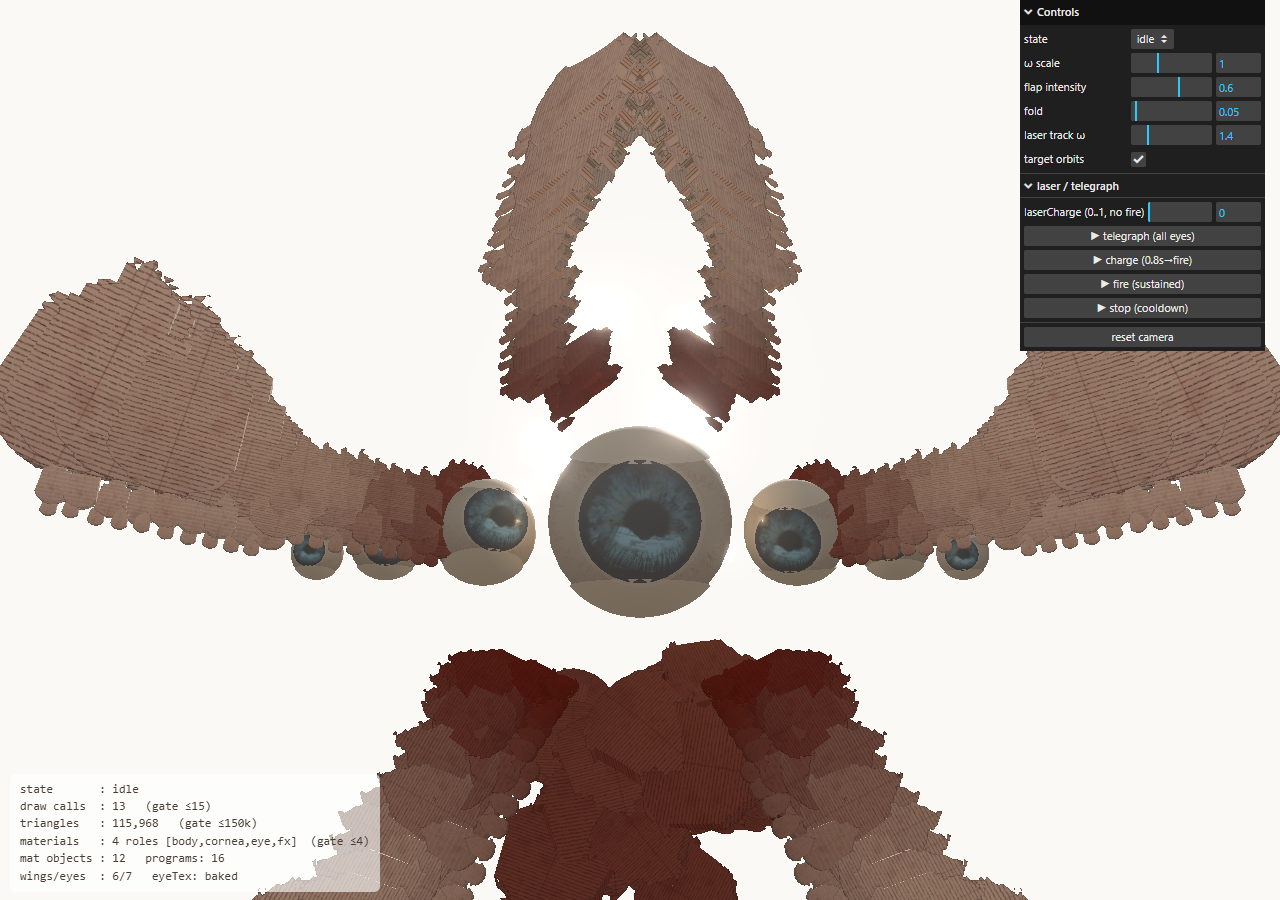
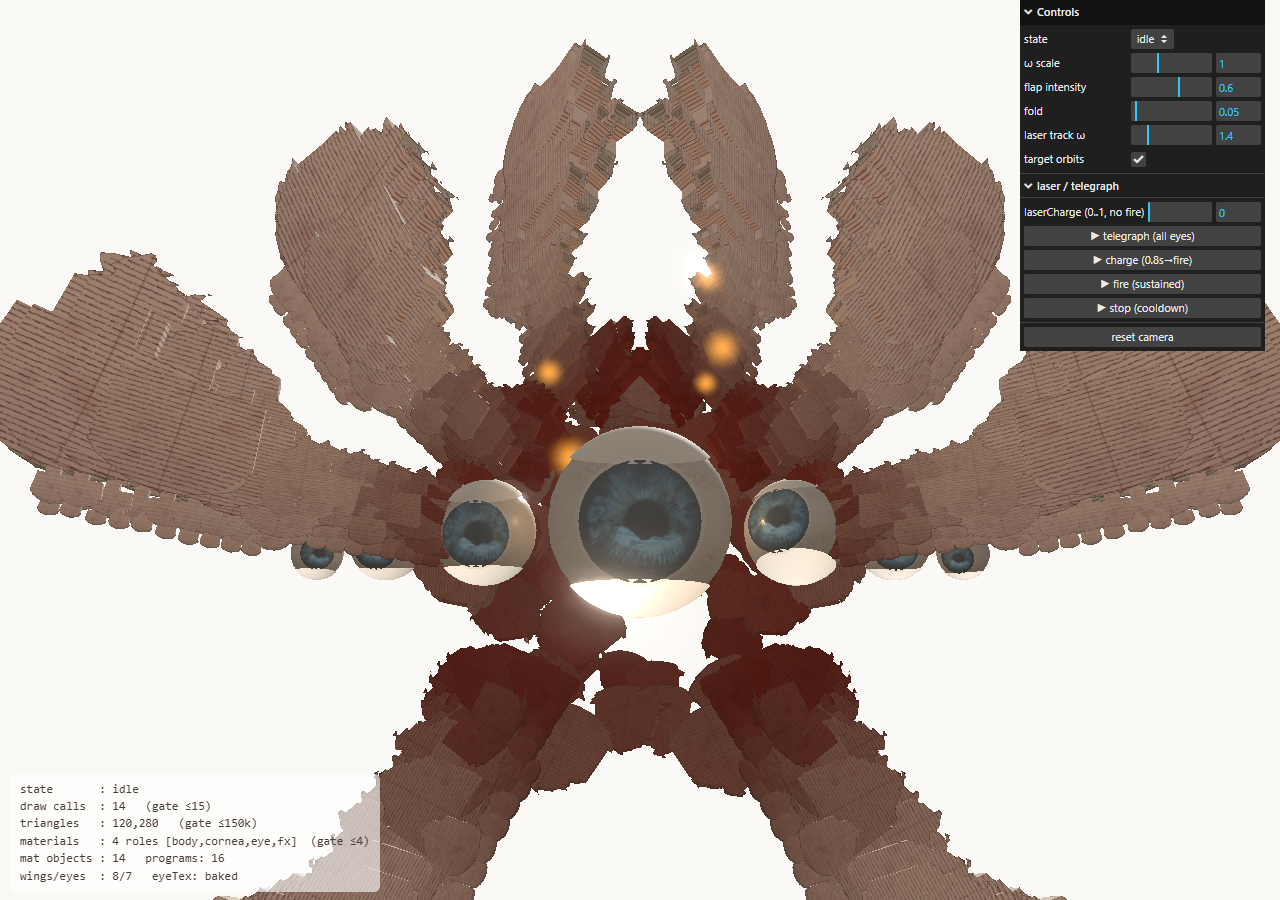
Ceraphim arrival cutscene (5s spacetime rip, MP-synced, build hitch hidden in CSS flash) + beam path carve + core-feather mantle re-layout + swim/getBlock float fix + survival K-gate
- buildCoreMass: radial mantle BEHIND the eye band (seed at each wing root, L/R flankers stepped inward, fill inside) — no more red blob
- bossCutscene/beginBossSummon/'bosscine' net msg: every player sees the rip; heavy rig build fires ~90ms into a compositor-driven white flash on all screens
- bossBeamCarve: the laser destroys everything along its path (radius-1 tube, dungeon/bedrock-safe, bulk-coalesced, 240-block tick budget)
- getBlock now floors coords: float wy made idx() fractional -> undefined -> inWater/feetWet never true; swimming never engaged. Space now surfaces you + breach hop at waist depth
- KeyK summon gated out of survival; __hc QA hooks (key/lock/water/deepWater/cine/ripTest/carveTest); bench/verify-cine-swim.mjs 9/9

diff --git a/index.html b/index.html
@@ -617,6 +617,7 @@ function makeChunk(cx,cz){
            hasWater:false, hasCross:false, hasModel:false };
 }
 function getBlock(wx,wy,wz){
+  wx=Math.floor(wx); wy=Math.floor(wy); wz=Math.floor(wz);   // float-safe: a fractional wy made idx() fractional → blocks[NaN-ish]=undefined → "not water/not solid" lies (this is why swimming never engaged — p.inWater probes at pos.y+0.9)
   if (wy<0) return BID.bedrock; if (wy>=WH) return AIR;
   const c = world.get(key(wx>>4, wz>>4));
   if (!c || !c.generated) return AIR;
@@ -2412,8 +2413,8 @@ function physics(dt){
   if(mag>0){ const nx=fwd/mag, ns=str/mag; mvx=(-sy*nx + cy*ns); mvz=(-cy*nx - sy*ns); }
   p.vel.x=mvx*base; p.vel.z=mvz*base;
   if(p.fly){ p.vel.y=((keys.Space?1:0)-((keys.ShiftLeft||keys.ShiftRight)?1:0))*base*0.85; }
-  else if(p.inWater){ // buoyant water physics: swim up (Space), dive (Sneak), else float+slow-sink
-    if(keys.Space) p.vel.y=3.8;
+  else if(p.inWater || (p.wading && getBlock(p.pos.x, p.pos.y+0.35, p.pos.z)===WATER)){ // buoyant water physics: swim up (Space), dive (Sneak), else float+slow-sink. Waist-deep ALSO swims — previously only a submerged torso did, so holding Space stalled with your eyes at the waterline and you could never break out of the water
+    if(keys.Space) p.vel.y = p.inWater?3.8:5.2;   // submerged: steady rise toward the surface; at the surface: a breach hop so you can climb onto the bank
     else if(p.sneak) p.vel.y=-3.2;
     else { p.vel.y-=7*dt; if(p.vel.y<-2.6)p.vel.y=-2.6; p.vel.y*=0.9; } }
   else if(p.onLadder){ // LADDER — cling to the rungs and climb. Horizontal is DAMPED so pressing W (or strafing) can't
@@ -3065,8 +3066,15 @@ applyFps(); applyMind(); buildPauseSettings();
 document.getElementById('respawnbtn').addEventListener('click',()=>{ respawn(); requestLock(); });
 document.addEventListener('pointerlockchange',()=>{ locked=document.pointerLockElement===canvas; if(locked){ pause.style.display='none'; audioResume&&audioResume(); } else if(started && !player.dead && !openUI){ pause.style.display='flex'; for(const k in keys)delete keys[k]; heldBtn=-1; } });
 let _lookDX=0,_lookDY=0;   // raw mouse deltas accumulate here; applyLook() eases them out over a few frames → SMOOTHED looking
+let _cine=null;            // CERAPHIM arrival cutscene state (declared early — applyLook reads it every frame; built by bossCutscene far below)
 document.addEventListener('mousemove',e=>{ if(!locked)return; _lookDX+=e.movementX; _lookDY+=e.movementY; });
 function applyLook(dt){ if(!locked)return; const base=0.0022*_sensMult;
+  if(_cine){ const dx=_cine.x-player.pos.x, dz=_cine.z-player.pos.z, dy=_cine.y-(player.pos.y+EYE), Lh=Math.hypot(dx,dz)||1e-6;   // CUTSCENE — the rip owns the camera; mouse input is discarded
+    const ty=Math.atan2(-dx,-dz), tp=clamp(Math.atan2(dy,Lh),-1.3,1.3), kc=1-Math.exp(-dt*4);
+    let dyaw=ty-player.yaw; dyaw=Math.atan2(Math.sin(dyaw),Math.cos(dyaw));
+    player.yaw+=dyaw*kc; player.pitch+=(tp-player.pitch)*kc; _lookDX=0; _lookDY=0;
+    if(_cine.shake>0){ player.yaw+=(Math.random()-0.5)*0.012*_cine.shake; player.pitch+=(Math.random()-0.5)*0.009*_cine.shake; }   // the world judders as it tears
+    return; }
   const _aT=(view&&view.adsT)||0, sens=base*(1-(1-_aimFrac)*_aT);   // sensitivity eases down WITH the raise (full at hip → _aimFrac at full cheek-weld), no snap
   const k=1-Math.exp(-dt*26);                                                    // smoothing rate (higher = snappier, lower = floatier)
   player.yaw-=_lookDX*sens*k; player.pitch-=_lookDY*sens*k; _lookDX*=(1-k); _lookDY*=(1-k);
@@ -3096,7 +3104,8 @@ addEventListener('keydown',e=>{ if(e.code==='Space')e.preventDefault();
     const dr=drops[drops.length-1]; if(dr){ dr.vx=d.x*4.5; dr.vz=d.z*4.5; dr.vy=2.2; }
     s.n--; if(s.n<=0)inv[selSlot]=null; refreshHotbar(); } }
   if(e.code==='KeyR'){ respawn(); }
-  if(e.code==='KeyK'){ HORROR._firstNight=true; wretch._summoned=true;   // SUMMON — anytime, day or night; it persists and CHOOSES what to do right now
+  if(e.code==='KeyK'){ if(!window._allowCreative){ flashName('the wood does not answer'); return; }   // SURVIVAL: no dev-summon — K is a creative/debug tool only
+    HORROR._firstNight=true; wretch._summoned=true;   // SUMMON — anytime, day or night; it persists and CHOOSES what to do right now
     if(!wretch.active){ wretch.spawnT=0; if(!spawnWretch(Math.random()*360,26)){ wretch.spawnT=0.5; return; } }
     chooseSummonAction(); }
 });
@@ -3148,7 +3157,7 @@ function useFlintSteel(h,slot){ let did=false, fx=player.pos.x, fy=player.pos.y+
     fx=h.x+0.5; fy=h.y+1.0; fz=h.z+0.5; flintStrike(fx,fy,fz); spawnParticles(fx,fy,fz,0xff5a20,22,2.6,1.1);
     const hb=(typeof herobrine!=='undefined')?herobrine:null;
     if(hb && hb.haunting && hb.state==='follow' && (hb.owner==null||hb.owner===NET.id) && Math.hypot(hb.x-h.x,hb.z-h.z)<9){   // a CUFFED Herobrine stands at the lit shrine → the offering is taken (only its leader can give it)
-      if(typeof summonBoss==='function')summonBoss(h.x+0.5, h.y+1, h.z+0.5); hb.haunting=false; hb.cuffed=false; if(typeof despawnHerobrine==='function')despawnHerobrine();
+      if(typeof beginBossSummon==='function')beginBossSummon(h.x+0.5, h.y+1, h.z+0.5); hb.haunting=false; hb.cuffed=false; if(typeof despawnHerobrine==='function')despawnHerobrine();   // 5s spacetime-rip cutscene → summonBoss fires inside its white flash
       spawnParticles(h.x+0.5,h.y+2,h.z+0.5,0xff2010,50,4,2.2); flashName('THE SHRINE IGNITES — the offering is taken. Something monstrous wakes.'); }
     else flashName('the netherrack catches — bring the cuffed one to the shrine first');
     slot.dur=(slot.dur||ITEMS.flint_and_steel.firestarter.dur)-1; if(slot.dur<=0){ inv[selSlot]=null; flashName('your flint & steel wears out'); } refreshHotbar(); return; }
@@ -3668,6 +3677,7 @@ function netMsg(m){
   else if(m.t==='grab'){ if(m.tid===NET.id && !player.grabbed && !player.dead && typeof beginDrag==='function'){ wretch.owner=NET.id; if(!wretch.group){const b=buildWretch();wretch.group=b.group;wretch.P=b.P;} beginDrag(); } }
   else if(m.t==='rescue'){ if(m.tid===NET.id && player.grabbed && typeof escapeDrag==='function') escapeDrag(); }
   else if(m.t==='dmg'){ if(m.to===NET.id && !player.dead && typeof damage==='function') damage(m.v||1, m.c||'struck down'); }                 // an authority (the boss / a peer) dealt damage to ME
+  else if(m.t==='bosscine'){ if(typeof bossCutscene==='function') bossCutscene(m.x,m.y,m.z,false); }                                          // a peer began the summon → every screen gets the rip + prebuilds the rig inside its own flash
   else if(m.t==='bossdead'){ wretch.boss=false; if(typeof applyBossVisual==='function')applyBossVisual(false);                                // the MEGA-WRETCH fell — tear the seraph down on every screen
     if(typeof spawnParticles==='function')spawnParticles(m.x,m.y+1,m.z,0x3a0608,40,3.4,1.8);
     if(typeof playSample==='function')playSample('seraph_toll',{x:m.x,y:m.y,z:m.z},1.0);
@@ -7268,6 +7278,21 @@ function bossBlast(cx,cy,cz,r){ const R=Math.ceil(r), r2=r*r, fx=Math.floor(cx),
     if(!bb||bb===WATER||(B[bb]&&(B[bb].hard<0))||inDungeon(x,y,z))continue;                                    // skip air/water/bedrock/unbreakable and the sacred dungeon
     setBlockWorld(x,y,z,AIR,true); if(typeof netEdit==='function')netEdit(x,y,z,AIR); n++; }
   if(n){ spawnParticles(cx,cy+0.5,cz,0xff5a20,26,4.2,1.0); spawnParticles(cx,cy+1.0,cz,0x3a3a3a,14,3.0,1.4); wretchVoice&&wretchVoice('sting',{x:cx,y:cy,z:cz}); } }
+// the beam is a physical thing — it destroys EVERYTHING in its path, not just where it lands.
+// A radius-1 rounded tube is marched from the eye to the strike point every damage tick; same
+// skip rules as bossBlast (air/water/bedrock/dungeon), bulk-coalesced so the remesh wave is one.
+function bossBeamCarve(ox,oy,oz,tx,ty,tz){ const dx=tx-ox,dy=ty-oy,dz=tz-oz, L=Math.hypot(dx,dy,dz)||1e-6, ux=dx/L,uy=dy/L,uz=dz/L; let n=0;
+  const seen=new Set(), doBulk=(typeof beginBulk==='function'); if(doBulk)beginBulk();
+  try{ for(let t=3.0;t<L-2.5;t+=0.8){ const px=ox+ux*t, py=oy+uy*t, pz=oz+uz*t;   // start clear of the boss, stop where bossBlast's r=3 takes over
+    for(let ax=-1;ax<=1;ax++)for(let ay=-1;ay<=1;ay++)for(let az=-1;az<=1;az++){ if(ax*ax+ay*ay+az*az>2)continue;
+      const x=Math.floor(px)+ax, y=Math.floor(py)+ay, z=Math.floor(pz)+az; if(y<=0||y>=WH)continue;
+      const k=x+'|'+y+'|'+z; if(seen.has(k))continue; seen.add(k);
+      const bb=getBlock(x,y,z); if(!bb||bb===WATER||(B[bb]&&(B[bb].hard<0))||inDungeon(x,y,z))continue;
+      setBlockWorld(x,y,z,AIR,true); if(typeof netEdit==='function')netEdit(x,y,z,AIR); n++;
+      if(n>240){ t=L; break; } } }                                                              // per-tick budget guard — the next tick finishes the cut
+  } finally { if(doBulk)endBulk(); }
+  if(n>6) spawnParticles(ox+ux*L*0.5, oy+uy*L*0.5, oz+uz*L*0.5, 0xff5a20, 8, 3.5, 0.8);
+  return n; }
 // TARGETING RING — a ground decal marking where a laser will land; it tracks the player, then LOCKS in the final beat so you can juke out
 let bossAimRing=null;
 function ensureBossRing(){ if(bossAimRing)return bossAimRing; const g=new THREE.Group();
@@ -7305,6 +7330,58 @@ function summonBoss(x,y,z){ if(!wretch.group){ const b=buildWretch(); wretch.gro
   wretch._laserState=null; wretch._laserCd=4; wretch._laserT=0;
   wretch.state='HUNT'; wretch.thought='RISEN. Winged. Furious. It will not forgive.'; wretchVoice&&wretchVoice('scream',wretch.pos); wretchVoice&&wretchVoice('shriek',wretch.pos);
   if(typeof playSample==='function'){ playSample('seraph_horn',wretch.pos,1.0); playSample('seraph_choir',wretch.pos,0.7); } }   // the herald blast + the massed angelic drone
+
+// ===== CERAPHIM ARRIVAL CUTSCENE — a 5s rip in spacetime that swallows the rig-build hitch =====
+// The heavy work (buildWretch + seraphOn model/shader compile) is deliberately fired ~90ms into a
+// WHITE FLASH driven by a CSS keyframe animation: CSS opacity animates on the COMPOSITOR thread,
+// so the screen stays blazing white even while the main thread stalls on the build — the lag
+// spike physically cannot be seen. Every player gets the same show via the 'bosscine' message.
+function _ripPath(ctx,W,Hh,open,sd,t){ const cx=W/2, cy=Hh/2, hh=Hh*0.34*(0.22+0.78*Math.min(1,open*2.6)), hw=W*0.17*open, N=12;   // tall jagged lens, widens with `open`
+  ctx.beginPath();
+  for(let s=1;s>=-1;s-=2) for(let i=0;i<=N;i++){ const j=(s>0?i:N-i), ang=(j/N)*Math.PI;
+    const jag=0.68+0.62*sd[(j+(s>0?0:7))%14]+0.06*Math.sin(t*13+j*2.7);
+    const xx=cx+s*Math.sin(ang)*hw*jag, yy=cy-Math.cos(ang)*hh;
+    (s>0&&i===0)?ctx.moveTo(xx,yy):ctx.lineTo(xx,yy); }
+  ctx.closePath(); }
+function _drawRip(t){ const c=_cine; if(!c)return; const ctx=c.ctx, W=c.cv.width, Hh=c.cv.height;
+  ctx.clearRect(0,0,W,Hh);
+  const veil = t<1.2? 0.68*(t/1.2) : t<4.0? 0.68 : Math.max(0, 0.68*(1-(t-4.0)/0.9));   // the world dims while the tear is open, releases as it finishes
+  ctx.fillStyle='rgba(3,0,8,'+veil.toFixed(3)+')'; ctx.fillRect(0,0,W,Hh);
+  const open = t<0.9? 0.015+0.05*(t/0.9) : t<1.6? 0.065+0.29*((t-0.9)/0.7) : t<4.05? 0.355+0.03*Math.sin(t*9) : 0.355+Math.pow((t-4.05)/0.95,2)*3.4;   // hairline crack → torn open → blown out past the frame
+  if(t>0.55&&t<4.1){ ctx.save(); ctx.globalAlpha=0.16+0.10*Math.sin(t*17); ctx.strokeStyle='#cfe0ff'; ctx.lineWidth=1;   // spacetime streaking INTO the tear
+    for(let i=0;i<18;i++){ const a=(i/18)*6.283+t*0.05, r1=Math.max(W,Hh)*0.75, r0=Math.min(W,Hh)*(0.16+0.1*c.sd[i%14]);
+      ctx.beginPath(); ctx.moveTo(W/2+Math.cos(a)*r1, Hh/2+Math.sin(a)*r1); ctx.lineTo(W/2+Math.cos(a)*r0, Hh/2+Math.sin(a)*r0); ctx.stroke(); }
+    ctx.restore(); }
+  ctx.save(); ctx.globalCompositeOperation='destination-out'; _ripPath(ctx,W,Hh,open,c.sd,t); ctx.fill(); ctx.restore();   // the tear is a HOLE — the world (and the arriving Ceraphim) shows through it
+  if(open<2.2) for(const rim of [['rgba(255,70,44,0.85)',3,8],['rgba(96,150,255,0.85)',-3,8],['#ffffff',0,4]]){ ctx.save(); ctx.translate(rim[1],0);   // white-hot rim with cheap chromatic fringe
+    _ripPath(ctx,W,Hh,open,c.sd,t); ctx.strokeStyle=rim[0]; ctx.lineWidth=rim[2]; ctx.shadowColor='#fff'; ctx.shadowBlur=30; ctx.stroke(); ctx.restore(); } }
+function bossCutscene(x,y,z,isSummoner){ if(_cine)return;
+  const gy=groundYAt(x,z);
+  const wrap=document.createElement('div'); wrap.style.cssText='position:fixed;inset:0;z-index:30;pointer-events:none;';
+  const cv=document.createElement('canvas'); cv.width=innerWidth; cv.height=innerHeight; cv.style.cssText='position:absolute;inset:0;width:100%;height:100%';
+  const flash=document.createElement('div'); flash.style.cssText='position:absolute;inset:0;background:#fff;opacity:0;';
+  const st=document.createElement('style'); st.textContent='@keyframes _cineFlash{0%{opacity:0}8%{opacity:1}30%{opacity:1}100%{opacity:0}}';
+  wrap.appendChild(cv); wrap.appendChild(flash); document.head.appendChild(st); document.body.appendChild(wrap);
+  const sd=[]; for(let i=0;i<14;i++)sd.push(Math.random());
+  _cine={x, y:gy+10, z, wrap, cv, ctx:cv.getContext('2d'), flash, st, sd, built:false, shake:0, isSummoner};
+  if(typeof playSample==='function') playSample('seraph_toll',{x,y:gy,z},1.0);   // something leans against the skin of the world
+  flashName('the air begins to split—');
+  const t0=performance.now();
+  (function tick(){ if(!_cine)return; const t=(performance.now()-t0)/1000;
+    if(t>=1.15 && !_cine.built){ _cine.built=true; _cine.flash.style.animation='_cineFlash 1.1s linear forwards';
+      setTimeout(()=>{ if(!_cine)return; try{ if(_cine.isSummoner) summonBoss(x,gy+1,z); else guestBossBuild(x,z); }catch(e){}   // the hitch lands INSIDE the flash
+        flashName('THE CERAPHIM TEARS THROUGH.'); },90); }
+    _cine.shake = t<1.15?0 : Math.max(0, 1-Math.max(0,t-2.0)/1.3);
+    _drawRip(t);
+    if(t<5.0) requestAnimationFrame(tick); else endBossCutscene(); })(); }
+function endBossCutscene(){ const c=_cine; if(!c)return; _cine=null; try{ c.wrap.remove(); c.st.remove(); }catch(e){} }
+function guestBossBuild(x,z){ if(wretch.boss)return;   // the owner's ticks may have raced us here — then the rig already exists and there is nothing to mask
+  if(!wretch.group){ const b=buildWretch(); wretch.group=b.group; wretch.P=b.P; }
+  wretch.active=true; wretch.group.visible=true; wretch.pos.set(x, groundYAt(x,z)+3, z);
+  wretch.boss=true; applyBossVisual(true); }   // pre-build the seraph during OUR flash so the arriving 'w' tick has no heavy work left
+function beginBossSummon(x,y,z){ if(_cine)return;
+  if(typeof NET!=='undefined'&&NET.on&&typeof netSend==='function') netSend({t:'bosscine',x:+x.toFixed(1),y:+y.toFixed(1),z:+z.toFixed(1)});
+  bossCutscene(x,y,z,true); }
 function bossUpdate(dt){ wretch.phase+=dt*1.4;
   const gp=(huntCam||player.pos), dx=gp.x-wretch.pos.x, dz=gp.z-wretch.pos.z, dist=Math.hypot(dx,dz)||1e-6, dy=gp.y-wretch.pos.y;
   wretch.dist=dist; wretch.yaw=Math.atan2(-dx,-dz); wretch._faceLock=true; wretch.faceOpen=0.55+Math.sin(wretch.phase*3)*0.3; wretch.eyeGlow=1; wretch.crawl=0; wretch._clingN=null; wretch.up.set(0,1,0);   // _faceLock keeps the body FACING THE PLAYER (not its flight heading)
@@ -7333,6 +7410,7 @@ function bossUpdate(dt){ wretch.phase+=dt*1.4;
     const _gyA=groundYAt(wretch._laserAim.x,wretch._laserAim.z); showBossRing(wretch._laserAim,0.5); showBossBeam(_ex,_eyH,_ez, wretch._laserAim.x,_gyA+0.3,wretch._laserAim.z);
     spawnParticles(wretch._laserAim.x,_gyA+0.4,wretch._laserAim.z, 0xff5a20, 3, 2.2, 0.4);
     wretch._laserTick=(wretch._laserTick||0)-dt; if(wretch._laserTick<=0){ wretch._laserTick=0.5; bossBlast(wretch._laserAim.x,_gyA,wretch._laserAim.z,3);   // EXPLODE blocks in a 3-block radius where it lands
+      bossBeamCarve(_ex,_eyH,_ez, wretch._laserAim.x,_gyA+0.3,wretch._laserAim.z);   // ...and RAZE everything the beam passes through on the way down
       const _ax=wretch._laserAim.x,_az=wretch._laserAim.z;
       if(Math.hypot(_ax-player.pos.x,_az-player.pos.z)<2.9 && typeof damage==='function')damage(4,'the seraph bathes you in searing light');
       if(NET.on)for(const _pid in NET.peers){ const _pp=NET.peers[_pid]; if(_pp && Math.hypot(_ax-_pp.x,_az-_pp.z)<2.9) netSend({t:'dmg',to:+_pid,v:4,c:'the seraph bathes you in searing light'}); } }   // beam burns whichever players stand in it
@@ -7470,7 +7548,7 @@ function spawnFromEgg(type, h){ h = h || raycastVoxel(); let x,z;
   if(type==='wretch'){ const dx=x-player.pos.x, dz=z-player.pos.z, dist=Math.max(8,Math.hypot(dx,dz)), bearing=Math.atan2(dx,dz)*180/Math.PI;
     HORROR._firstNight=true; if(!wretch.active){ wretch.spawnT=0; if(!spawnWretch(bearing,dist)) wretch.spawnT=0.5; } flashName('something answers the call'); return; }
   if(type==='herobrine'){ if(typeof startHaunt==='function')startHaunt(); flashName('a pale watcher stirs — it will show itself, then surrender'); return; }   // begins the Herobrine surrender sequence
-  if(type==='ceraphim'){ const gy=groundYAt(x,z); if(typeof summonBoss==='function')summonBoss(x,gy,z); flashName('THE CERAPHIM DESCENDS.'); return; }   // raise the winged boss at the aimed spot — same path as the shrine offering
+  if(type==='ceraphim'){ const gy=groundYAt(x,z); if(typeof beginBossSummon==='function')beginBossSummon(x,gy,z); return; }   // spacetime-rip cutscene → the winged boss tears through at the aimed spot
   if(!ANIMALS[type])return; let gy=groundYAt(x,z); if(type==='jesus' && gy<=CFG.SEA)gy=CFG.SEA+1;   // Jesus spawns standing ON the water
   const mesh=buildAnimalMesh(type,false); mesh.position.set(x,gy,z);
   animals.push({type,mesh,x,y:gy,z,yaw:Math.random()*6.283,hp:ANIMALS[type].hp,timer:0,flee:0,dead:false});
@@ -9077,7 +9155,19 @@ window.__hc={
     wretch.pos.set(player.pos.x+1.2, player.pos.y, player.pos.z); return wretch.grabPhase; },
   forceHaul(){ if(!wretch.active)this.summon(); if(typeof beginDrag==='function'){ beginDrag(); wretch.grabPhase='haul'; wretch.dragT=0; wretch.struggle=0; wretch.dragPath=null; } return wretch.grabPhase; },
   drag(){ const L=wretch.lair||{}; return { du:!!player._dragUsed, struggle:+(wretch.struggle||0).toFixed(1), gp:wretch.grabPhase, grabbed:player.grabbed, px:+player.pos.x.toFixed(1), pz:+player.pos.z.toFixed(1), py:+player.pos.y.toFixed(1), entX:L.entX!=null?+L.entX.toFixed(1):null, entZ:L.entZ!=null?+L.entZ.toFixed(1):null, roomY:L.roomY, distEnt:(L.entX!=null?+Math.hypot(L.entX-player.pos.x,L.entZ-player.pos.z).toFixed(1):null), pathLen:wretch.dragPath?wretch.dragPath.length:null, dragT:+(wretch.dragT||0).toFixed(1), lairX:L.x!=null?+L.x.toFixed(1):null, lairZ:L.z!=null?+L.z.toFixed(1):null }; },
-  diag(){ let bg='?'; try{ bg=scene.background?(scene.background.isColor?('#'+scene.background.getHexString()):'tex'):'null'; }catch(e){bg='e';} let vis=0; try{chunkRoot.children.forEach(g=>{if(g.visible)vis++;});}catch(e){} return { chunkRootVis:chunkRoot.visible, chunkKids:chunkRoot.children.length, chunkKidsVis:vis, skyVis:(typeof skyDome!=='undefined'?skyDome.visible:'?'), bg, wpos:[+wretch.pos.x.toFixed(1),+wretch.pos.y.toFixed(1),+wretch.pos.z.toFixed(1)], qaStudio:!!window.__qaStudio }; }
+  diag(){ let bg='?'; try{ bg=scene.background?(scene.background.isColor?('#'+scene.background.getHexString()):'tex'):'null'; }catch(e){bg='e';} let vis=0; try{chunkRoot.children.forEach(g=>{if(g.visible)vis++;});}catch(e){} return { chunkRootVis:chunkRoot.visible, chunkKids:chunkRoot.children.length, chunkKidsVis:vis, skyVis:(typeof skyDome!=='undefined'?skyDome.visible:'?'), bg, wpos:[+wretch.pos.x.toFixed(1),+wretch.pos.y.toFixed(1),+wretch.pos.z.toFixed(1)], qaStudio:!!window.__qaStudio }; },
+  key(c,on){ if(on)keys[c]=true; else delete keys[c]; return !!keys[c]; },   // QA: inject held keys past the pointer-lock gate (physics reads `keys` directly)
+  lock(on){ locked=!!on; return locked; },   // QA: force the pointer-lock flag — headless Chrome can never acquire real pointer lock, and physics() only runs while locked
+  deepWater(){ for(let r=30;r<260;r+=6)for(let a=0;a<12;a++){ const th=a*0.5236, x=player.pos.x+Math.cos(th)*r, z=player.pos.z+Math.sin(th)*r;   // QA: nearest genuinely deep sea spot
+    if(surfaceH(Math.round(x),Math.round(z))<=CFG.SEA-5) return {x:+x.toFixed(1),z:+z.toFixed(1),sea:CFG.SEA}; } return null; },
+  water(){ return {y:+player.pos.y.toFixed(2), inWater:player.inWater, wading:player.wading}; },   // QA: swim state
+  cine(){ return {active:!!_cine, built:!!(_cine&&_cine.built), boss:wretch.boss, shake:+((_cine&&_cine.shake)||0).toFixed(2)}; },   // QA: cutscene state
+  ripTest(){ const d=lookDir(); const x=player.pos.x+d.x*18, z=player.pos.z+d.z*18; beginBossSummon(x,groundYAt(x,z),z); return this.cine(); },   // QA: run the full summon cutscene in front of the player
+  carveTest(){ const d=lookDir(), ox=player.pos.x, oy=player.pos.y+14, oz=player.pos.z, tx=ox+d.x*40, tz=oz+d.z*40, gy=groundYAt(tx,tz);   // QA: erect a stone pillar straddling the beam path, fire one carve, confirm the pillar is eaten
+    const mx=Math.floor(ox+d.x*20), mz=Math.floor(oz+d.z*20), my=Math.floor(oy+(gy+0.3-oy)*0.5);
+    for(let k=-1;k<=1;k++) setBlockWorld(mx,my+k,mz,BID.stone,true);
+    const broken=bossBeamCarve(ox,oy,oz, tx,gy+0.3,tz);
+    return { broken, pillarAfter:[getBlock(mx,my-1,mz),getBlock(mx,my,mz),getBlock(mx,my+1,mz)] }; }
 };
 function o_studioBG(on){ return (typeof on==='number' && on>1000)? on : 0x0c0e12; }
 // DEV QA: ?debug=1&death=1 → auto-summon and hold the devour close-up (for render-verifying the death animation / vantablack void). Gated behind DEBUG so it never fires in real play.

diff --git a/src/boss/seraphim/index.js b/src/boss/seraphim/index.js
@@ -389,8 +389,13 @@ function trimWingFeathers(wing, cfg, voxLen) {
   return lowGeo.userData.triangles || 0;
 }
 
-// core feather mass: ONE InstancedMesh, cone-scatter of dense small rust feathers
-// hanging under the eye band, sharing the body material (canon §5). ≤ ~10k tris.
+// core feather mass: ONE InstancedMesh sharing the body material (canon §5). ≤ ~10k tris.
+// FIX-2 LAYOUT (user spec): a radial MANTLE that sits BEHIND the eye band, echoing the
+// eight outer wings — one SEED feather at the inward edge (root) of each wing, then a
+// flanker to each seed's left and right stepped slightly inward, and every remaining
+// feather filling the inner disc. All feathers lie in a back plane (flat face forward,
+// tips pointing radially out), so the red reads as layered plumage instead of a blob,
+// and nothing can occlude the eyes.
 function buildCoreMass(bodyMat, count = 46, voxLen = 7) {
   const geo = buildFeather({ variantSeed: 3, droopK: 0.22, length: voxLen });
   const n = count;
@@ -399,27 +404,38 @@ function buildCoreMass(bodyMat, count = 46, voxLen = 7) {
   const aRestQuat = new Float32Array(n * 4);
   const aPhase = new Float32Array(n);
   const aRow = new Float32Array(n).fill(3);
-  const aStain = new Float32Array(n).fill(0.85);  // heavy rust core (not fully saturated → less bloom)
+  const aStain = new Float32Array(n);
   const aLen = new Float32Array(n);
   const aVariant = new Float32Array(n);
-  const q = new THREE.Quaternion(), e = new THREE.Euler(), off = new THREE.Vector3();
+  const q = new THREE.Quaternion(), qt = new THREE.Quaternion(), e = new THREE.Euler(), off = new THREE.Vector3();
+  const XAXIS = new THREE.Vector3(1, 0, 0);
+  // the 8 wing-root anchors (both sides of the 4 pairs), XY in the core frame —
+  // KEEP IN SYNC with wingConfigs() pos[].
+  const roots = [];
+  for (const p of [[0.06, 0.37], [0.22, 0.17], [0.30, 0.00], [0.12, -0.30]])
+    for (const s of [1, -1]) roots.push([p[0] * s * H, p[1] * H]);
+  // build the placement list: 8 seeds → 16 inward-stepped flankers → central fill
+  const spots = [];
+  for (const [rx, ry] of roots) {
+    const th = Math.atan2(ry, rx), r = Math.hypot(rx, ry);
+    spots.push({ th, r, len: 0.52, layer: 0, stain: 0.78 });                                    // seed at the wing's inward edge
+    for (const s of [1, -1]) spots.push({ th: th + s * 0.26, r: r * 0.76, len: 0.40, layer: 1, stain: 0.85 });  // left+right, shifted inward
+  }
+  while (spots.length < n) {                                                                     // the rest fill the inside
+    const th = Math.random() * 6.283, rr = Math.sqrt(Math.random());
+    spots.push({ th, r: (0.03 + rr * 0.17) * H, len: 0.26 + Math.random() * 0.10, layer: 2, stain: 0.90 });
+  }
   for (let i = 0; i < n; i++) {
-    // FIX-1: hang as a narrow, tapered downward TRAIN beneath the eye-band — NOT a wide
-    // forward boulder. Bias EVERY feather behind the central pupil (z stays < 0) so the
-    // core can never occlude the dominant central eye; correlate reach with drop so it
-    // reads as draping plumage that tapers to a point.
-    const a = Math.random() * Math.PI * 2;
-    const rr = Math.random();
-    const r = (0.12 + rr * 0.88) * 0.40 * H;           // narrow radius (was 0.7·H)
-    const down = (0.05 + Math.random() * 0.80) * H;    // drape below the band
-    off.set(Math.cos(a) * r * 0.42, -down, Math.sin(a) * r * 0.20 - 0.22 * H);
+    const sp = spots[i];
+    const th = sp.th + (sp.layer === 2 ? 0 : (Math.random() - 0.5) * 0.06);                      // hand-placed rows keep their slots; only a hair of jitter
+    off.set(Math.cos(th) * sp.r, Math.sin(th) * sp.r, -0.030 * H * sp.layer + (Math.random() - 0.5) * 0.012 * H);   // deeper layers sit further back → visible layering
     aRestOffset.set([off.x, off.y, off.z], i * 3);
-    // point straight-ish down with scatter (feather +Y is length axis pre-orient)
-    e.set(Math.PI * (0.82 + Math.random() * 0.16), (Math.random() - 0.5) * 0.7, a + Math.PI, 'XYZ');
-    q.setFromEuler(e);
+    q.setFromEuler(e.set(0, 0, th - Math.PI / 2));                                               // feather +Y (length axis) points radially OUTWARD
+    qt.setFromAxisAngle(XAXIS, -(0.08 + Math.random() * 0.14)); q.multiply(qt);                  // slight lean away from the viewer for depth
     aRestQuat.set([q.x, q.y, q.z, q.w], i * 4);
     aPhase[i] = Math.random() * 6.283;
-    aLen[i] = (0.30 + Math.random() * 0.45) * H * 0.5;  // shorter feathers → hanging plumage, not slabs
+    aLen[i] = sp.len * H * 0.5;                                                                  // seeds longest → fill shortest: the mantle tapers inward
+    aStain[i] = sp.stain + (Math.random() - 0.5) * 0.06;                                         // stain deepens toward the centre; per-feather variance keeps edges readable
     aVariant[i] = i % 4;
   }
   geo.setAttribute('aSegment', new THREE.InstancedBufferAttribute(aSegment, 1));
@@ -539,7 +555,7 @@ export class SeraphimModel {
     this._coreMat = coreMat;
     const cm = buildCoreMass(coreMat, this.quality === 'low' ? 32 : 46, 6);   // shorter voxel feathers → hanging plumage, not slabs
     this.coreMass = cm.mesh;
-    this.coreMass.position.set(0, -H * 0.14, 0);   // FIX-1: hang the train BELOW the band (was +H*0.05, level with the eyes → eclipsed them)
+    this.coreMass.position.set(0, 0, -H * 0.12);   // FIX-2: the mantle plane sits BEHIND the eye band (feathers peek out radially around it, never in front of the eyes)
     this.core.add(this.coreMass);
     this._coreTris = cm.tris;
 